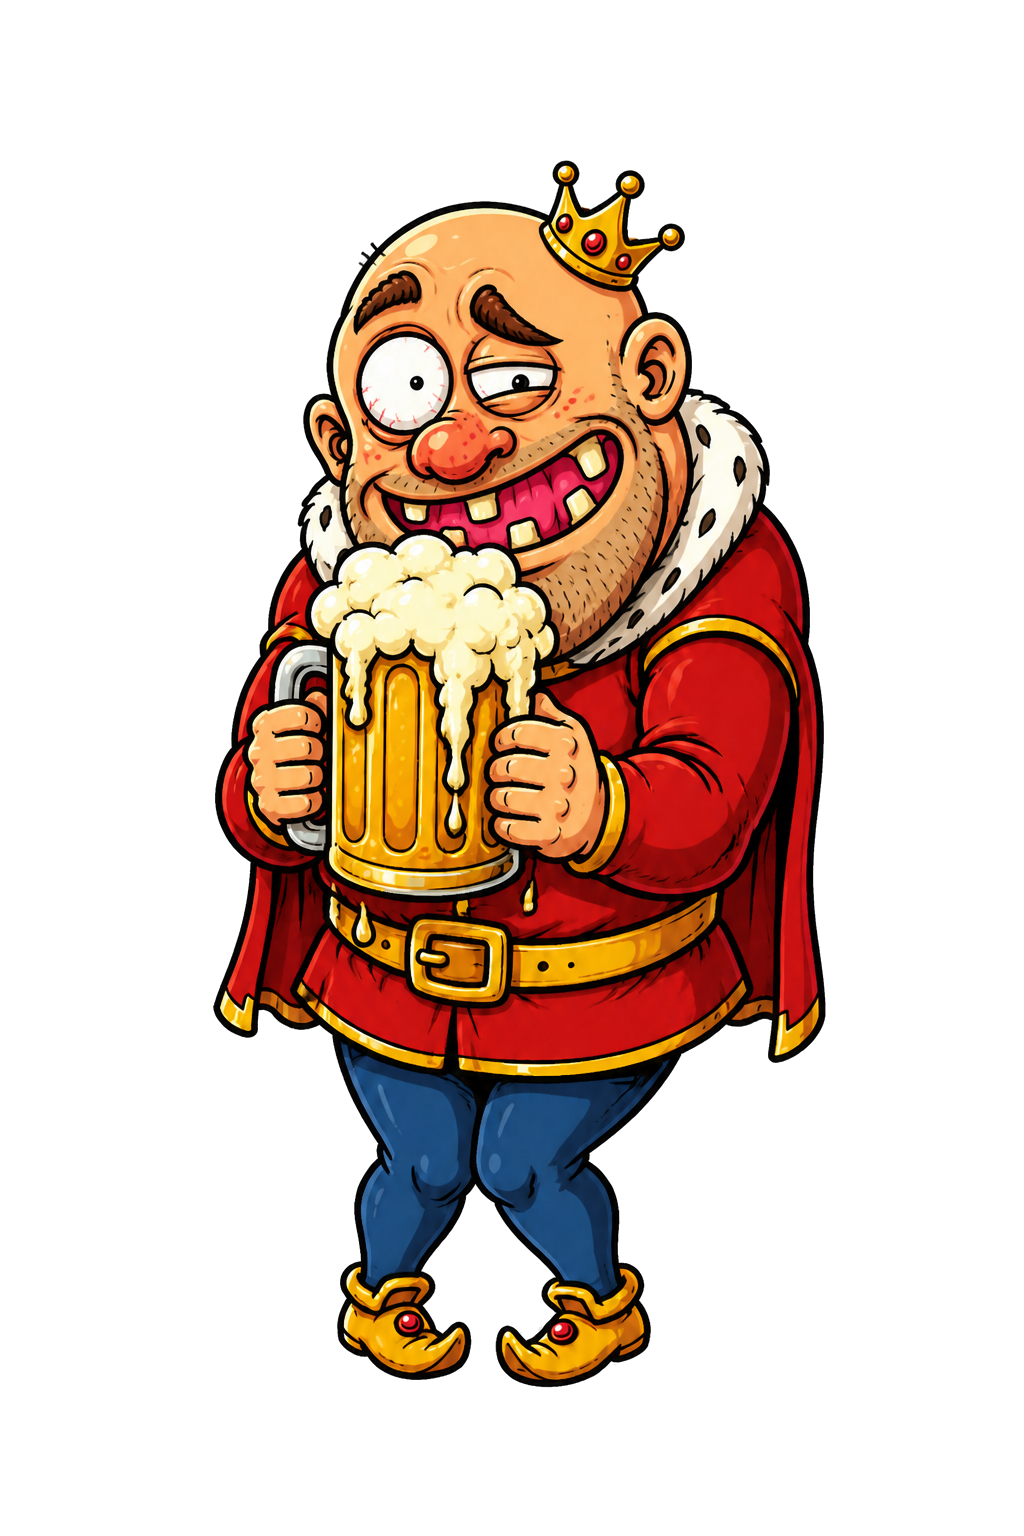
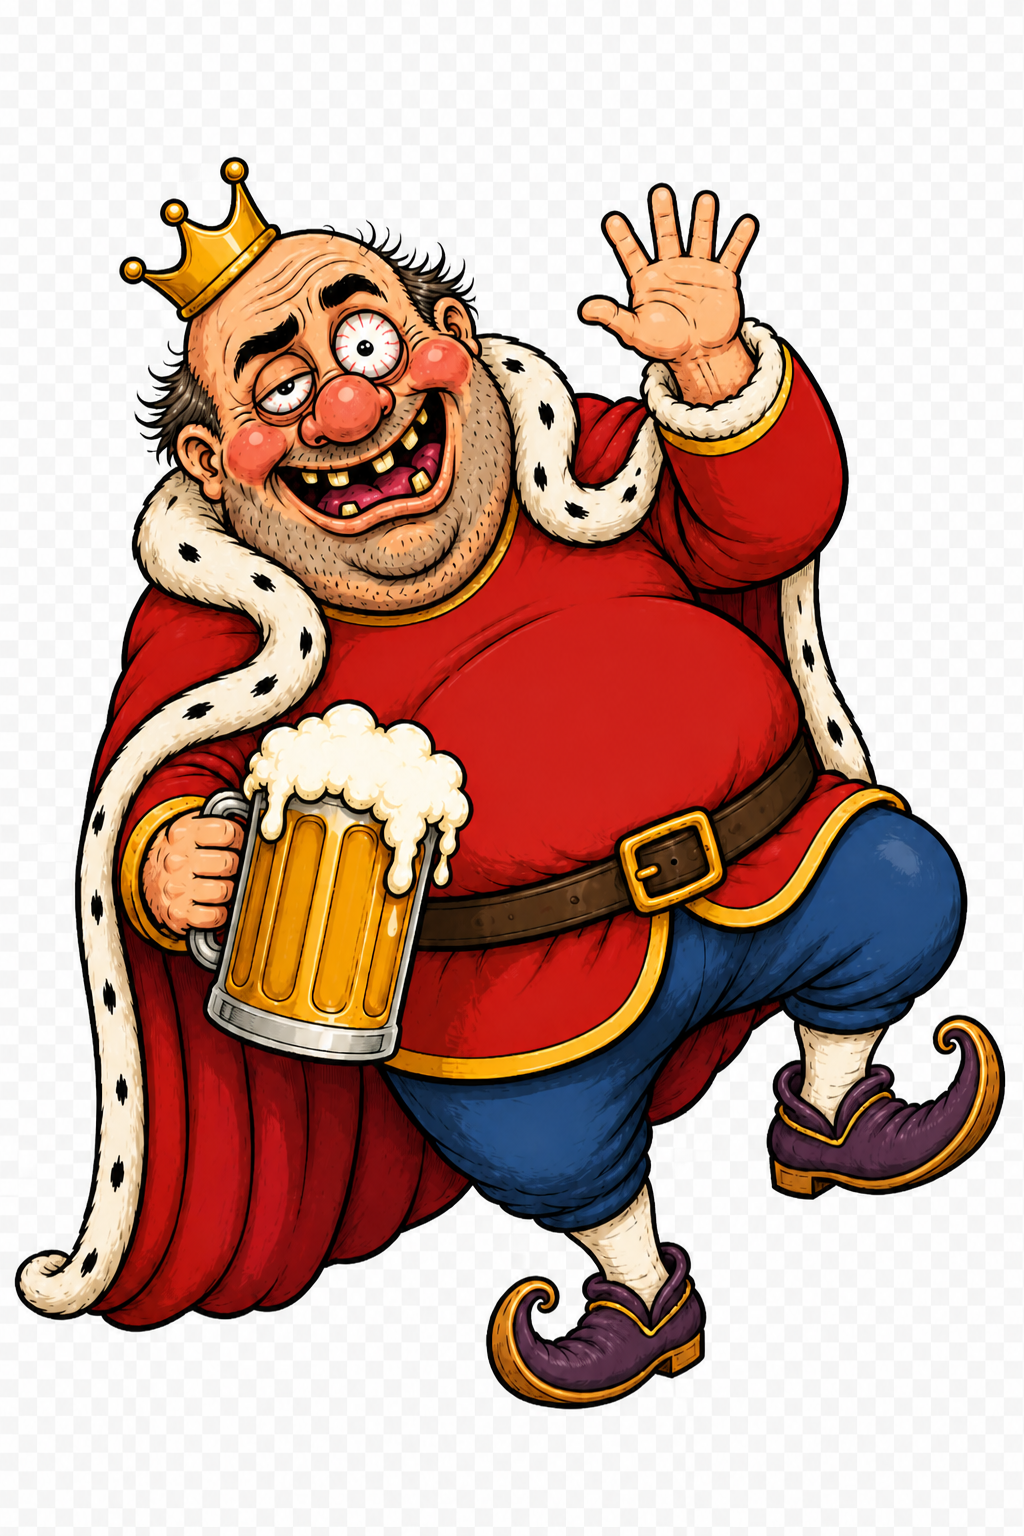
change photos exension

diff --git a/src/assets.js b/src/assets.js
@@ -15,8 +15,8 @@ export const CHARACTER_ART = {
 };
 
 export const MODE_ART = {
-  clasico: asset("/assets/cards/swedish-mode.png", "The queen rules the classic deck"),
-  wild: asset("/assets/cards/wild-mode.png", "The prince brings chaos to the wild deck")
+  clasico: asset("/assets/cards/swedish-mode.webp", "The queen rules the classic deck"),
+  wild: asset("/assets/cards/wild-mode.webp", "The prince brings chaos to the wild deck")
 };
 
 export const NUMBERED_RANKS = new Set(["2", "3", "4", "5", "6", "7", "8", "9", "10"]);
